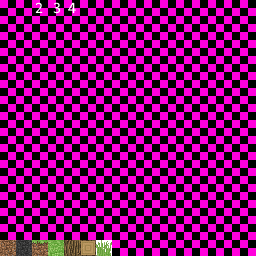
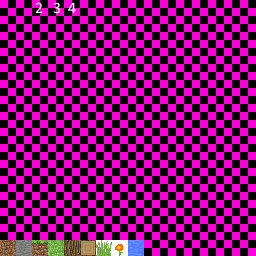
Added initial water test

Changed region(s): [[0.4375, 0.9375, 0.5625, 1.0], [0.0625, 0.9375, 0.125, 1.0]]

diff --git a/Assets/Scripts/TerrainGenerator.cs b/Assets/Scripts/TerrainGenerator.cs
@@ -9,6 +9,8 @@ public static class TerrainGenerator
 
     static System.Random random = new System.Random();
 
+    static int WATERLEVEL = 8;
+
     public static void Update()
     {
         if (chunkThreadCallbackQueue.Count > 0)
@@ -45,17 +47,28 @@ public static class TerrainGenerator
 
                     Vector3 sampler = (Vector3)blockPos * .05f;
 
-                    int h = (int)(Mathf.PerlinNoise(sampler.x, sampler.z) * 20);
+                    chunk.SetBlock(blockPosInChunk, Blocks.AIR);
 
+                    int h = (int)(Mathf.PerlinNoise(sampler.x, sampler.z) * 20);
+                    int h2 = (int)(Mathf.PerlinNoise(sampler.x+0.434384f, sampler.z+0.2389349f) * 20);
+
+                    if (blockPos.y < WATERLEVEL)
+                    {
+                        chunk.SetBlock(blockPosInChunk, Blocks.WATER);
+                    }
                     if (h == blockPos.y)
                     {
-                        chunk.SetBlock(blockPosInChunk, Blocks.GRASS);
+                        chunk.SetBlock(blockPosInChunk, blockPos.y < WATERLEVEL-1 ? Blocks.STONE : Blocks.GRASS);
                     }
                     else if (h == blockPos.y - 1)
                     {
                         lock (random)
                         {
-                            if (random.NextDouble() < .05)
+                            if (random.NextDouble() < .01)
+                            {
+                               chunk.SetBlock(blockPosInChunk, Blocks.FLOWER);
+                            }
+                            else if (random.NextDouble() < .05)
                             {
                                 chunk.SetBlock(blockPosInChunk, Blocks.GRASS_PLANT);
                             }
@@ -63,11 +76,14 @@ public static class TerrainGenerator
                     }
                     else if (blockPos.y < h)
                     {
-                        chunk.SetBlock(blockPosInChunk, Blocks.DIRT);
-                    }
-                    else
-                    {
-                        chunk.SetBlock(blockPosInChunk, Blocks.AIR);
+                        if (blockPos.y <= h2)
+                        {
+                            chunk.SetBlock(blockPosInChunk, Blocks.STONE);
+                        }
+                        else
+                        {
+                            chunk.SetBlock(blockPosInChunk, Blocks.DIRT);
+                        }
                     }
 
                 }

diff --git a/Assets/Scripts/Block/BlockGrassPlant.cs b/Assets/Scripts/Block/BlockGrassPlant.cs
@@ -4,7 +4,7 @@ using UnityEngine;
 
 public class BlockGrassPlant : Block
 {
-    public BlockGrassPlant(string name) : base(name)
+    public BlockGrassPlant(string name, Vector2 uvCoord) : base(name, uvCoord)
     {
     }
 
@@ -16,10 +16,10 @@ public class BlockGrassPlant : Block
         vertices.Add(posInChunk+new Vector3(1,1,1));
         vertices.Add(posInChunk+new Vector3(1,0,1));
 
-        uvs.Add(new Vector2(6f/16,0));
-        uvs.Add(new Vector2(6f/16,1f/16));
-        uvs.Add(new Vector2(7f/16,1f/16));
-        uvs.Add(new Vector2(7f/16,0));
+        uvs.Add(uvCoord);
+        uvs.Add(uvCoord+new Vector2(0,1f/16));
+        uvs.Add(uvCoord+new Vector2(1f/16,1f/16));
+        uvs.Add(uvCoord+new Vector2(1f/16,0));
 
         triangles.Add(t);
         triangles.Add(t+1);
@@ -41,10 +41,10 @@ public class BlockGrassPlant : Block
         vertices.Add(posInChunk + new Vector3(1, 1, 0));
         vertices.Add(posInChunk + new Vector3(1, 0, 0));
 
-        uvs.Add(new Vector2(6f / 16, 0));
-        uvs.Add(new Vector2(6f / 16, 1f / 16));
-        uvs.Add(new Vector2(7f / 16, 1f / 16));
-        uvs.Add(new Vector2(7f / 16, 0));
+        uvs.Add(uvCoord);
+        uvs.Add(uvCoord + new Vector2(0, 1f / 16));
+        uvs.Add(uvCoord + new Vector2(1f / 16, 1f / 16));
+        uvs.Add(uvCoord + new Vector2(1f / 16, 0));
 
         triangles.Add(t);
         triangles.Add(t + 1);

diff --git a/Assets/Scripts/Block/Blocks.cs b/Assets/Scripts/Block/Blocks.cs
@@ -12,6 +12,8 @@ public static class Blocks
     public static readonly Block GRASS;
     public static readonly Block LOG;
     public static readonly Block GRASS_PLANT;
+    public static readonly Block FLOWER;
+    public static readonly Block WATER;
 
     // Set up all the blocks
     static Blocks()
@@ -21,7 +23,9 @@ public static class Blocks
         STONE = AddBlock(new Block("Stone",new Vector2(1f/16,0)));
         GRASS = AddBlock(new BlockGrass("Grass"));
         LOG = AddBlock(new BlockLog("Log"));
-        GRASS_PLANT = AddBlock(new BlockGrassPlant("Tall Grass"));
+        GRASS_PLANT = AddBlock(new BlockGrassPlant("Tall Grass",new Vector2(6f/16,0)));
+        FLOWER = AddBlock(new BlockGrassPlant("Flower",new Vector2(7f/16,0)));
+        WATER = AddBlock(new Block("Water",new Vector2(8f/16,0),true));
     }
 
     public static Block FromId(byte id)

diff --git a/Assets/Scripts/Chunk/ChunkMeshGenerator.cs b/Assets/Scripts/Chunk/ChunkMeshGenerator.cs
@@ -63,7 +63,7 @@ public static class ChunkMeshGenerator
                             {
                                 BlockFace face = faces[f];
                                 Block adjacentBlock = World.instance.GetBlock(chunk.Chunk2World(blockInChunkPos).offset(face));
-                                if (adjacentBlock == null || adjacentBlock.IsTransparent())
+                                if (adjacentBlock == null || (adjacentBlock.IsTransparent() && !(block == Blocks.WATER && adjacentBlock == Blocks.WATER)))
                                 {
                                     GenerateFace((Vector3)blockInChunkPos, face, block, mesh);
                                 }

diff --git a/Assets/Scripts/Block/Block.cs b/Assets/Scripts/Block/Block.cs
@@ -3,10 +3,10 @@ using UnityEngine;
 
 public class Block
 {
-    private byte id;
-    private readonly string name;
-    private Vector2 uvCoord;
-    private bool isTransparent;
+    protected byte id;
+    protected readonly string name;
+    protected Vector2 uvCoord;
+    protected bool isTransparent;
 
     public byte Id {
         get => id;
